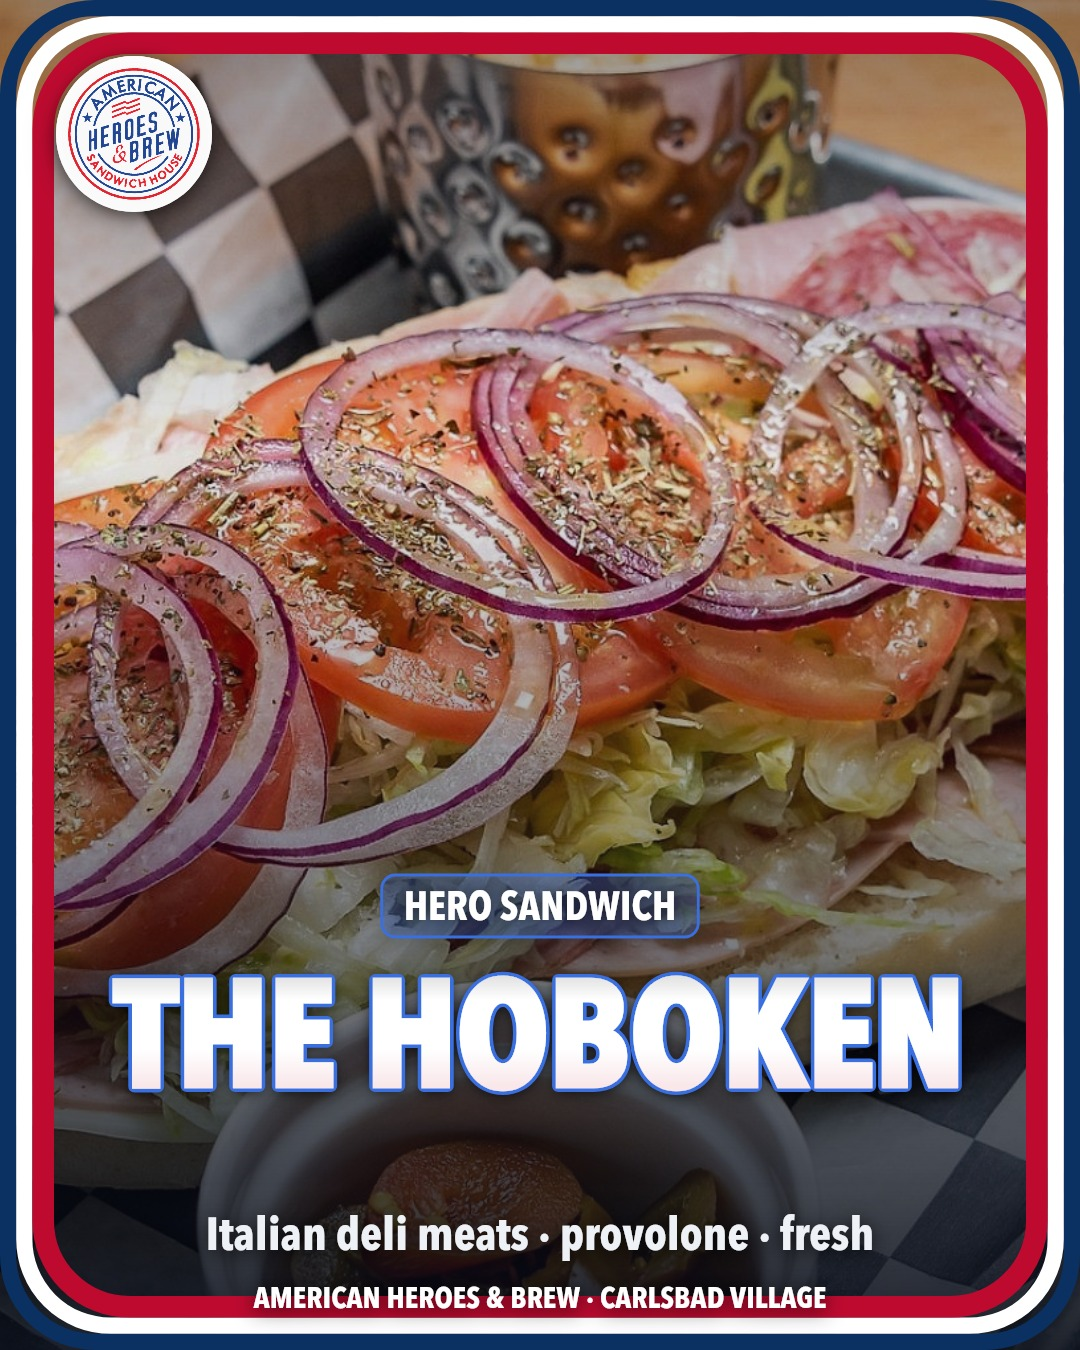
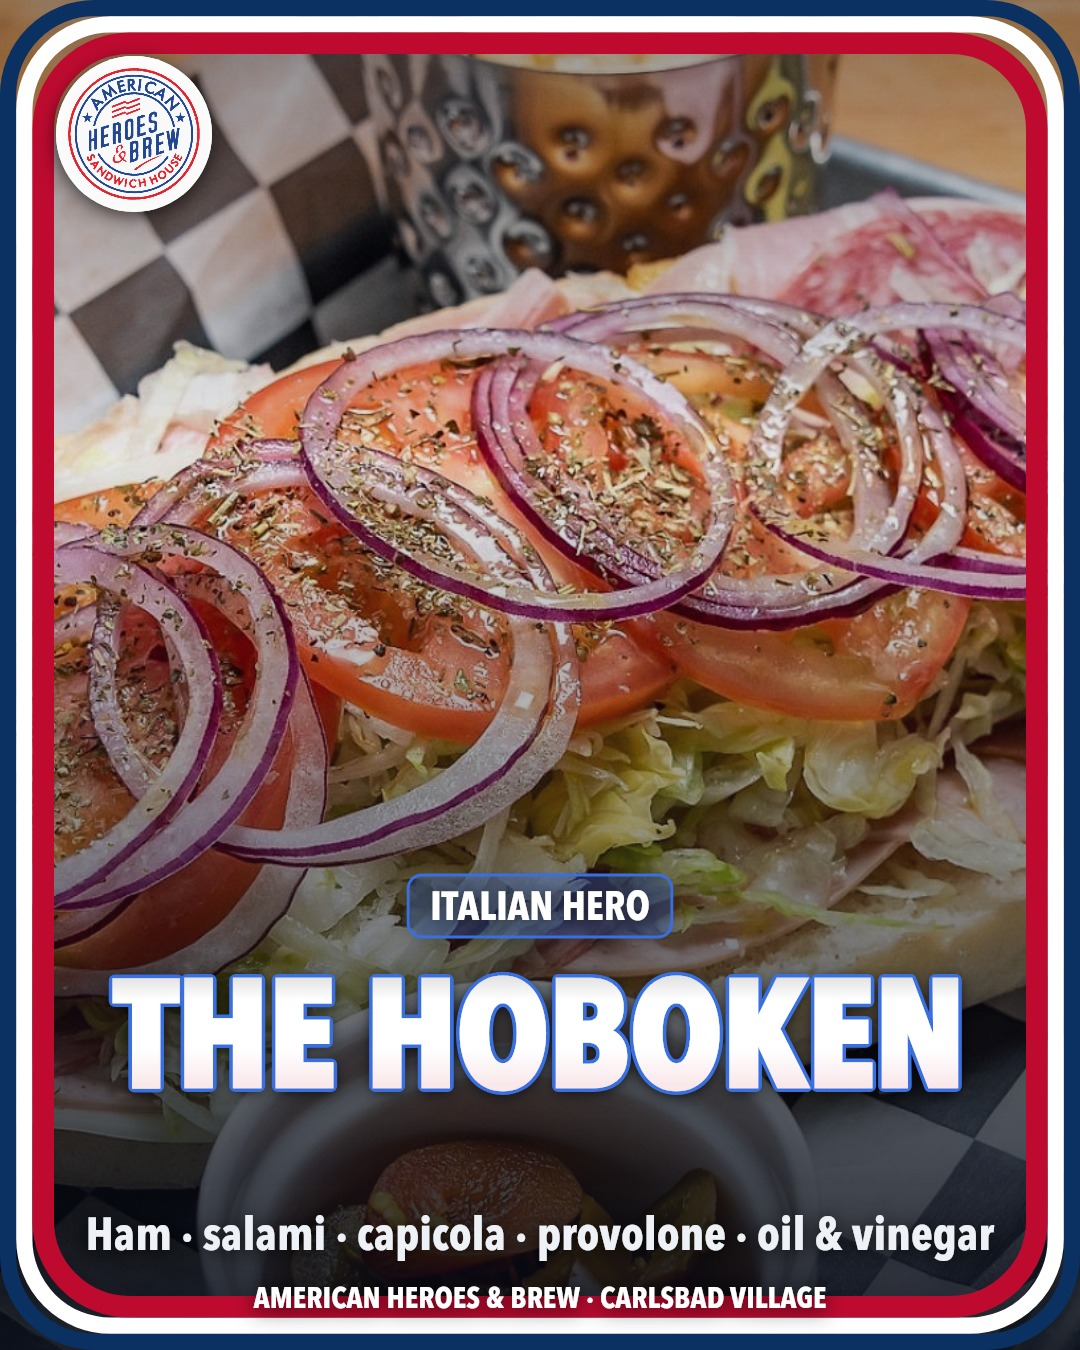
fix(promos): accurate menu-item feed posters + games post as Google Events only
- curated-promos: games now curate ONLY as Google Events (with start/end time);
  removed the daily 'Today at Heroes' schedule-lineup Story/Google posts and the
  game feed matchup posters per request. Padres Events keep the Friar Frank push.
- feed posters: replaced mislabeled photos (los-angeles was actually a Cuban/Miami,
  cheesesteak-fries was pastrami, sliders was a chicken sandwich) with photos that
  match real menu items; each poster now shows the correct menu name + the item's
  actual description from menu.ts (Wings, Juicy Lucy, Philly Cheesesteak, Kalua Pork
  Sliders, Nachos, Hoboken, Friar Frank, Village Tacos, Pasadena, Now Hiring).

Changed region(s): [[0.0611, 0.9022, 0.9167, 0.9333], [0.3361, 0.6222, 0.6722, 0.7156]]

diff --git a/Heroes/heroes-brew/src/lib/curated-promos.test.ts b/Heroes/heroes-brew/src/lib/curated-promos.test.ts
@@ -55,100 +55,42 @@ describe('curatePromos — Google Events', () => {
   });
 });
 
-describe('curatePromos — IG Feed posts (biggest games only)', () => {
-  it('emits a feed-post for a USA World Cup game', () => {
-    const out = curatePromos([ev({ id: 'wc-usa', league: 'WORLDCUP', homeTeam: 'United States', awayTeam: 'Wales' })]);
-    const feed = out.find((p) => p.key === 'feed-wc-usa');
-    expect(feed?.postType).toBe('feed-post');
-    expect(feed?.channel).toBe('Feed');
-    expect(feed?.media).toContain('/api/og/event');
-    expect(feed?.media).toContain('ratio=4x5');
-  });
-
-  it('emits a feed-post for a Padres HOME game but not a Padres AWAY game', () => {
-    const home = curatePromos([ev({ id: 'mlb-home', league: 'MLB', homeTeam: 'San Diego Padres', awayTeam: 'Los Angeles Dodgers' })]);
-    expect(home.find((p) => p.key === 'feed-mlb-home')?.postType).toBe('feed-post');
-    const away = curatePromos([ev({ id: 'mlb-away', league: 'MLB', homeTeam: 'Los Angeles Dodgers', awayTeam: 'San Diego Padres' })]);
-    expect(away.find((p) => p.postType === 'feed-post')).toBeUndefined();
-  });
-
-  it('emits a feed-post for a Chargers HOME game', () => {
-    const out = curatePromos([ev({ id: 'nfl-home', league: 'NFL', homeTeam: 'Los Angeles Chargers', awayTeam: 'Denver Broncos' })]);
-    expect(out.find((p) => p.key === 'feed-nfl-home')?.postType).toBe('feed-post');
-  });
-
-  it('does NOT emit a feed-post for a Monday-Night game without a followed team', () => {
-    const out = curatePromos([ev({ id: 'nfl-mnf', league: 'NFL', homeTeam: 'Buffalo Bills', awayTeam: 'New York Jets', eventTimestamp: '2026-06-29T19:00:00-07:00' })]);
-    expect(out.find((p) => p.postType === 'feed-post')).toBeUndefined();
-    // ...but it is still a Google Event.
-    expect(out.find((p) => p.postType === 'google-event')).toBeTruthy();
-  });
-
-  it('does NOT emit a feed-post for a non-USA/Mexico World Cup game', () => {
-    const out = curatePromos([ev({ id: 'wc-br', league: 'WORLDCUP', homeTeam: 'Brazil', awayTeam: 'Serbia' })]);
-    expect(out.find((p) => p.postType === 'feed-post')).toBeUndefined();
-  });
-});
-
-describe('curatePromos — Daily lineup (Story + Google)', () => {
-  it('emits one daily lineup per game-day, to both Story and Google', () => {
+describe('curatePromos — games post ONLY as Google Events', () => {
+  it('emits no feed-post or schedule-story rows — games are Google Events only', () => {
     const out = curatePromos([
-      ev({ id: 'a', league: 'MLB', homeTeam: 'New York Yankees', awayTeam: 'Boston Red Sox', eventTimestamp: '2026-06-29T11:00:00-07:00' }),
-      ev({ id: 'b', league: 'MLB', homeTeam: 'Chicago Cubs', awayTeam: 'St. Louis Cardinals', eventTimestamp: '2026-06-29T14:00:00-07:00' }),
+      ev({ id: 'mlb-home', league: 'MLB', homeTeam: 'San Diego Padres', awayTeam: 'Los Angeles Dodgers', eventTimestamp: '2026-06-29T18:00:00-07:00' }),
+      ev({ id: 'wc-usa', league: 'WORLDCUP', homeTeam: 'United States', awayTeam: 'Wales' }),
     ]);
-    const lineups = out.filter((p) => p.postType === 'schedule-story');
-    expect(lineups).toHaveLength(1);
-    expect(lineups[0].channel).toBe('Story, Google');
-    expect(lineups[0].media).toContain('/api/og/schedule');
-    expect(lineups[0].media).toContain('league=ALL');
-    expect(lineups[0].media).toContain('date=2026-06-29');
-    expect(lineups[0].key).toBe('sched-ALL-2026-06-29');
+    expect(out.length).toBeGreaterThan(0);
+    expect(out.every((p) => p.postType === 'google-event')).toBe(true);
+    expect(out.find((p) => p.postType === 'feed-post')).toBeUndefined();
+    expect(out.find((p) => p.postType === 'schedule-story')).toBeUndefined();
   });
 
-  it('emits a separate daily lineup for each game-day', () => {
-    const out = curatePromos([
-      ev({ id: 'a', league: 'MLB', homeTeam: 'New York Yankees', awayTeam: 'Boston Red Sox', eventTimestamp: '2026-06-29T11:00:00-07:00' }),
-      ev({ id: 'b', league: 'MLB', homeTeam: 'Chicago Cubs', awayTeam: 'St. Louis Cardinals', eventTimestamp: '2026-06-30T14:00:00-07:00' }),
-    ]);
-    expect(out.filter((p) => p.postType === 'schedule-story')).toHaveLength(2);
-  });
-
-  it('does NOT emit a daily lineup on a day with no sports (holiday only)', () => {
-    const out = curatePromos([ev({ id: 'h', eventType: 'HOLIDAY', eventTitle: 'Flag Day' })]);
-    expect(out.filter((p) => p.postType === 'schedule-story')).toHaveLength(0);
-  });
-
-  it('pushes Friar Frank in the lineup on a Padres game-day, not otherwise', () => {
-    const padres = curatePromos([ev({ id: 'p', league: 'MLB', homeTeam: 'San Diego Padres', awayTeam: 'Chicago Cubs', eventTimestamp: '2026-06-29T18:00:00-07:00' })]);
-    const pl = padres.find((p) => p.postType === 'schedule-story')!;
-    expect(pl.headline).toContain('Padres');
-    expect(pl.caption).toContain('Friar Franks $6');
-    expect(pl.storyCaption).toContain('Friar Franks $6');
-
-    const noPadres = curatePromos([ev({ id: 'n', league: 'MLB', homeTeam: 'New York Yankees', awayTeam: 'Boston Red Sox', eventTimestamp: '2026-06-29T18:00:00-07:00' })]);
-    const nl = noPadres.find((p) => p.postType === 'schedule-story')!;
-    expect(nl.caption).not.toContain('Friar Frank');
+  it('a Padres Google Event carries a start and end time', () => {
+    const out = curatePromos([ev({ id: 'mlb-1', league: 'MLB', homeTeam: 'San Diego Padres', awayTeam: 'Chicago Cubs' })]);
+    const e = out.find((p) => p.key === 'gevt-mlb-1');
+    expect(e?.channel).toBe('Google');
+    expect(e?.eventStart).toBeTruthy();
+    expect(e?.eventEnd).toBeTruthy();
   });
 });
 
 describe('curatePromos — auto-approval', () => {
-  it('auto-approves Padres/Chargers Events and daily lineups, but NOT Monday-Night events', () => {
+  it('auto-approves Padres/Chargers Events, but NOT Monday-Night events', () => {
     const out = curatePromos([
       ev({ id: 'p', league: 'MLB', homeTeam: 'San Diego Padres', awayTeam: 'Chicago Cubs', eventTimestamp: '2026-06-30T18:00:00-07:00' }),
       ev({ id: 'mnf', league: 'NFL', homeTeam: 'Buffalo Bills', awayTeam: 'New York Jets', eventTimestamp: '2026-06-29T19:00:00-07:00' }),
     ]);
     expect(out.find((p) => p.key === 'gevt-p')?.autoApprove).toBe(true);
-    expect(out.find((p) => p.key === 'feed-p')?.autoApprove).toBe(true);
     expect(out.find((p) => p.key === 'gevt-mnf')?.autoApprove).toBe(false);
-    expect(out.filter((p) => p.postType === 'schedule-story').every((p) => p.autoApprove)).toBe(true);
   });
 });
 
 describe('curatePromos — Friar Frank push on Padres games', () => {
-  it('adds the Friar Frank push to a Padres Google Event and feed post', () => {
+  it('adds the Friar Frank push to a Padres Google Event', () => {
     const out = curatePromos([ev({ id: 'mlb-p', league: 'MLB', homeTeam: 'San Diego Padres', awayTeam: 'Los Angeles Dodgers' })]);
     expect(out.find((p) => p.key === 'gevt-mlb-p')?.caption).toContain('Friar Franks $6');
-    expect(out.find((p) => p.key === 'feed-mlb-p')?.caption).toContain('Friar Franks $6');
   });
 
   it('does NOT add the Friar Frank push to a Chargers Google Event', () => {

diff --git a/Heroes/heroes-brew/src/lib/curated-promos.ts b/Heroes/heroes-brew/src/lib/curated-promos.ts
@@ -35,8 +35,6 @@ export interface CuratedPromo {
 
 const TAGS = '#AmericanHeroesAndBrew #CarlsbadVillage #SportsBar';
 const EVENT_POST_TIME = '10:00 AM';
-const STORY_POST_TIME = '9:00 AM';
-const FEED_POST_TIME = '11:00 AM';
 const EVENT_DURATION_MS = 2.5 * 60 * 60 * 1000;
 
 /** The Padres game-day special, pushed on every Padres post. */
@@ -48,9 +46,6 @@ function isPadres(e: UnifiedEvent): boolean {
 
 /** Teams whose every game becomes a Google Event (league-scoped below). */
 const GOOGLE_EVENT_TEAMS = new Set(['San Diego Padres', 'Los Angeles Chargers']);
-
-/** Teams whose HOME games are "biggest" and also earn an IG feed post. */
-const FEED_HOME_TEAMS = new Set(['San Diego Padres', 'Los Angeles Chargers']);
 
 function isUsaOrMexicoWC(e: UnifiedEvent): boolean {
   if (e.league !== 'WORLDCUP') return false;
@@ -65,15 +60,6 @@ function isGoogleEventTeamGame(e: UnifiedEvent): boolean {
 
 function isGoogleEvent(e: UnifiedEvent): boolean {
   return isUsaOrMexicoWC(e) || isGoogleEventTeamGame(e) || isMondayNight(e);
-}
-
-/**
- * "Biggest" games that also earn an Instagram FEED post (matchup poster to the grid):
- * USA/Mexico World Cup games and Padres/Chargers HOME games. Narrower than isGoogleEvent
- * — Monday-Night and away games stay Event+Story only, to keep the feed from flooding.
- */
-function isBiggestGame(e: UnifiedEvent): boolean {
-  return isUsaOrMexicoWC(e) || (!!e.homeTeam && FEED_HOME_TEAMS.has(e.homeTeam));
 }
 
 /** PT calendar parts of an ISO timestamp. */
@@ -137,50 +123,6 @@ function googleEventPromo(e: UnifiedEvent): CuratedPromo {
   };
 }
 
-function feedPostPromo(e: UnifiedEvent): CuratedPromo {
-  const start = ptParts(e.eventTimestamp);
-  const m = matchup(e);
-  return {
-    postType: 'feed-post',
-    key: `feed-${e.id}`,
-    date: start.dateLabel,
-    time: FEED_POST_TIME,
-    channel: 'Feed',
-    media: eventPoster(e, `${start.weekday} ${start.timeLabel}`, '4x5'),
-    headline: `${m} — Game Day at Heroes`,
-    caption: `Big one today: ${m}. Catch every minute at American Heroes & Brew — 16 TVs, full bar, ice-cold beer, Carlsbad Village. First pitch/kickoff ${start.timeLabel}.${isPadres(e) ? ` ${FRIAR_FRANK_PUSH}` : ''} 🇺🇸🍻`,
-    storyCaption: '',
-    tags: TAGS,
-    league: e.league ?? '',
-    // Padres/Chargers home matchups auto-post to the grid; other biggest games (WC) stay manual.
-    autoApprove: isGoogleEventTeamGame(e),
-  };
-}
-
-/**
- * The daily "Today at Heroes" lineup — one poster per game-day listing every game
- * on the TVs, posted to BOTH the IG Story and Google. Auto-approves (schedule-story).
- * On Padres days it carries the Friar Frank push and leads with the Padres game.
- */
-function dailyLineupPromo(ymd: string, dateLabel: string, hasPadres: boolean): CuratedPromo {
-  const franksCap = hasPadres ? ` Padres today — ${FRIAR_FRANK_PUSH}` : '';
-  const franksStory = hasPadres ? ' Padres today — Friar Franks $6! 🌭' : '';
-  return {
-    postType: 'schedule-story',
-    key: `sched-ALL-${ymd}`,
-    date: dateLabel,
-    time: STORY_POST_TIME,
-    channel: 'Story, Google',
-    media: `/api/og/schedule?league=ALL&date=${ymd}`,
-    headline: hasPadres ? 'Padres Game Day at Heroes' : "Today's Lineup at Heroes",
-    caption: `Today's lineup at American Heroes & Brew — every game, every screen. 16 TVs, full bar, Carlsbad Village.${franksCap} 🍻`,
-    storyCaption: `Today's lineup on every screen 🍻 Carlsbad Village.${franksStory}`,
-    tags: TAGS,
-    league: 'ALL',
-    autoApprove: true,
-  };
-}
-
 /**
  * Pure curation: turn a fetched event list into curated promo rows. Separated from
  * the fetch so it can be unit-tested with fixtures (the 7-day window is already
@@ -189,27 +131,11 @@ function dailyLineupPromo(ymd: string, dateLabel: string, hasPadres: boolean): C
 export function curatePromos(events: UnifiedEvent[]): CuratedPromo[] {
   const out: CuratedPromo[] = [];
 
-  // Google Events: one per qualifying game.
+  // Games post ONLY as Google Events (with a start + end time). No schedule/lineup
+  // Story posters, no game feed posters — one Google Event per qualifying game.
   for (const e of events) {
     if (e.eventType === 'SPORTS' && isGoogleEvent(e)) out.push(googleEventPromo(e));
   }
-
-  // IG Feed posts: only the biggest games (USA/Mexico WC, Padres/Chargers home).
-  for (const e of events) {
-    if (e.eventType === 'SPORTS' && isBiggestGame(e)) out.push(feedPostPromo(e));
-  }
-
-  // Daily lineup Story + Google: one poster per game-day (any sport on the TVs),
-  // leading with — and pushing Friar Frank on — Padres days.
-  const gameDays = new Map<string, { label: string; padres: boolean }>();
-  for (const e of events) {
-    if (e.eventType !== 'SPORTS') continue;
-    const p = ptParts(e.eventTimestamp);
-    const cur = gameDays.get(p.ymd) ?? { label: p.dateLabel, padres: false };
-    if (isPadres(e)) cur.padres = true;
-    gameDays.set(p.ymd, cur);
-  }
-  for (const [ymd, info] of gameDays) out.push(dailyLineupPromo(ymd, info.label, info.padres));
 
   return out;
 }
